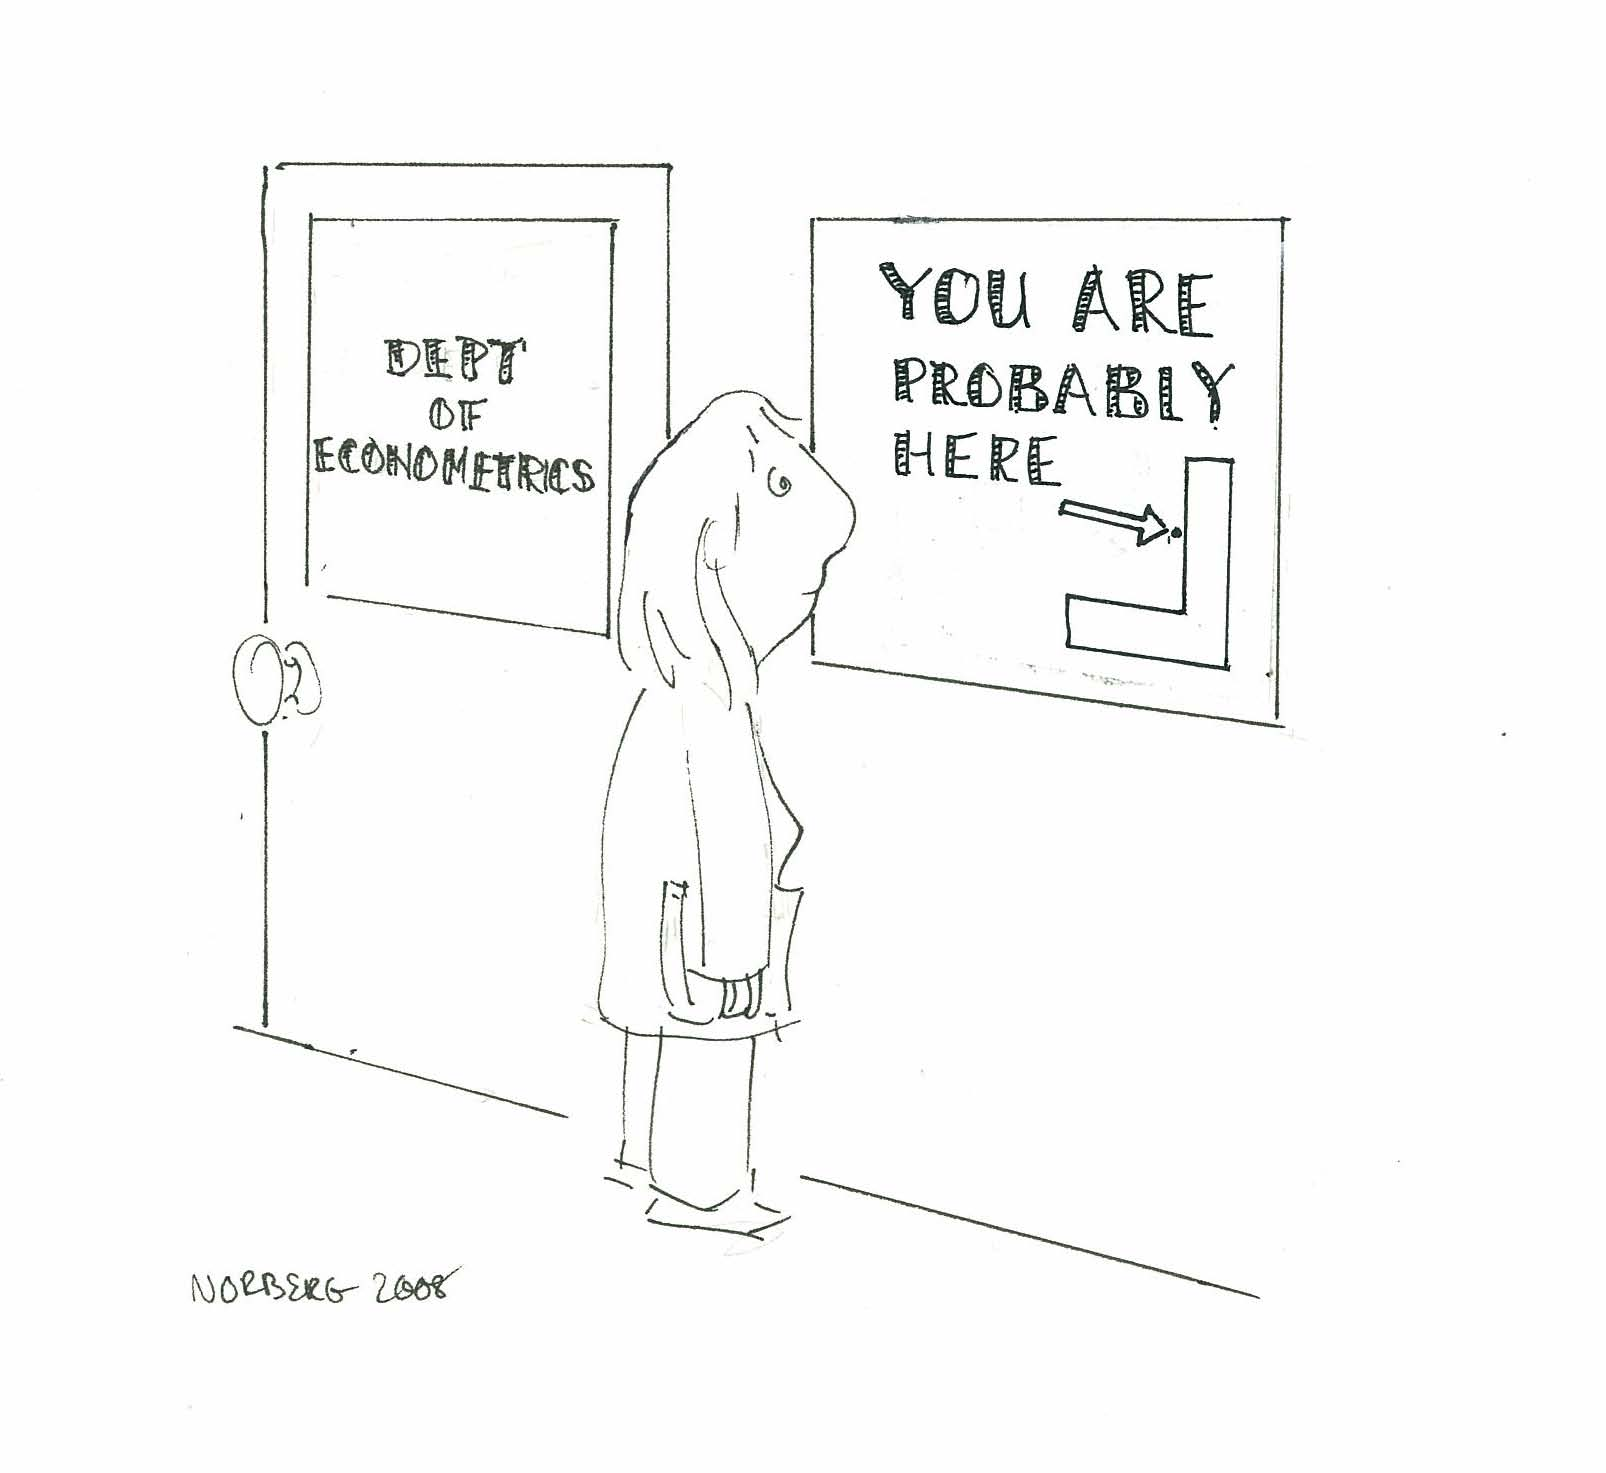
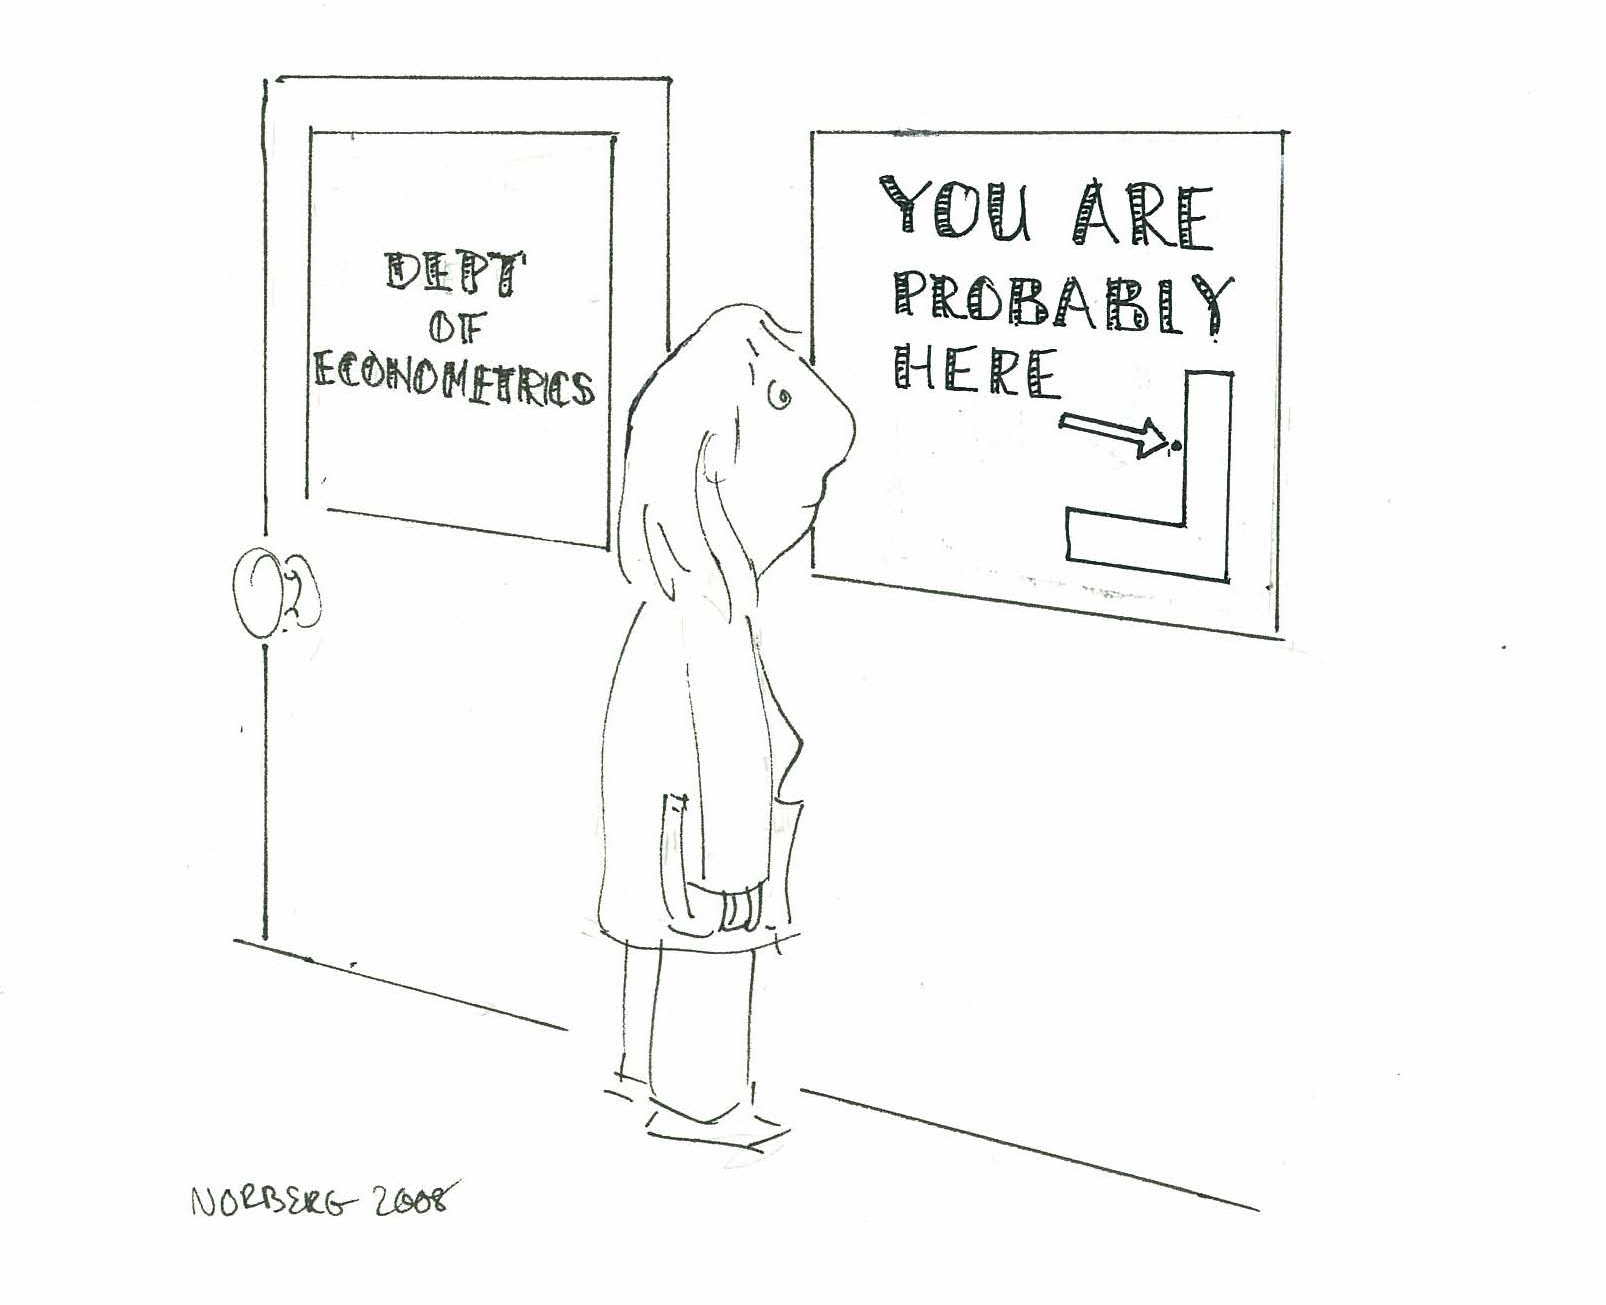
update

diff --git a/_sass/minimal-mistakes/_variables.scss b/_sass/minimal-mistakes/_variables.scss
@@ -139,7 +139,7 @@ $x-large: 1280px !default;
    ========================================================================== */
 
 $right-sidebar-width-narrow: 120px !default;
-$right-sidebar-width: 240px !default;
+$right-sidebar-width: 230px !default;
 $right-sidebar-width-wide: 400px !default;
 
 /*

diff --git a/_pages/research.md b/_pages/research.md
@@ -7,7 +7,7 @@ toc_label: " Table of Contents"
 toc_icon: "bookmark"
 ---
 
-![](/assets/images/you_are_here.jpg){: .width-half}
+![](/assets/images/you_are_here.jpg){: .align-right .width-half}
 
 ## Research Interest
 * My research interests lie at the intersection between economic value and societal impacts of information systems and technology. My research has been primarily oriented toward three areas:
